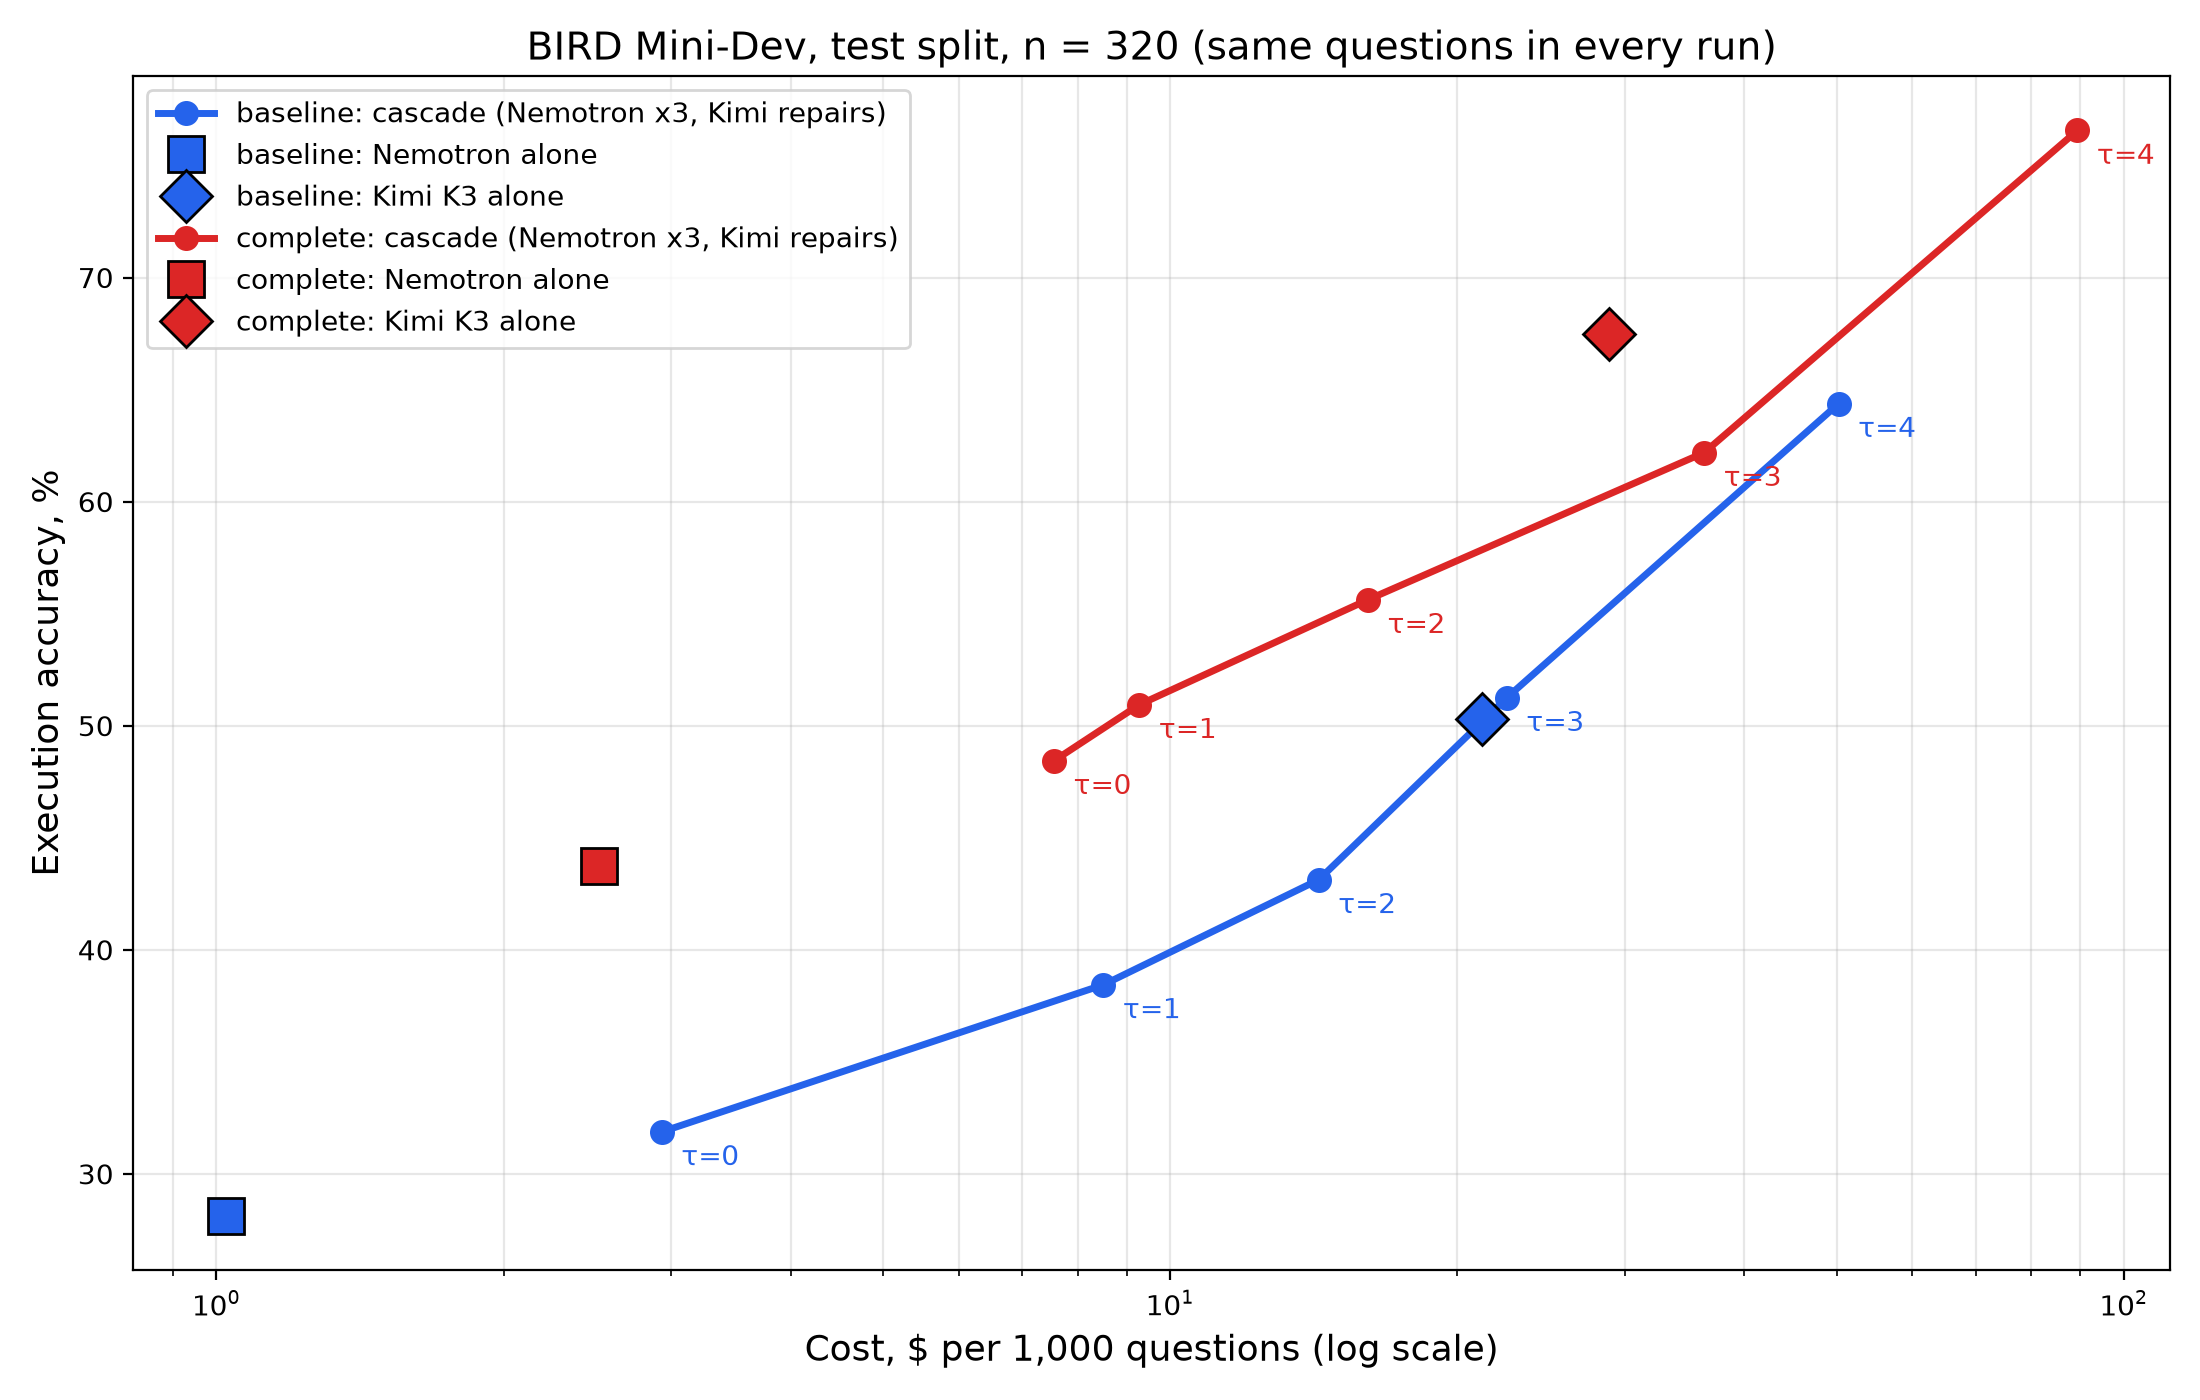
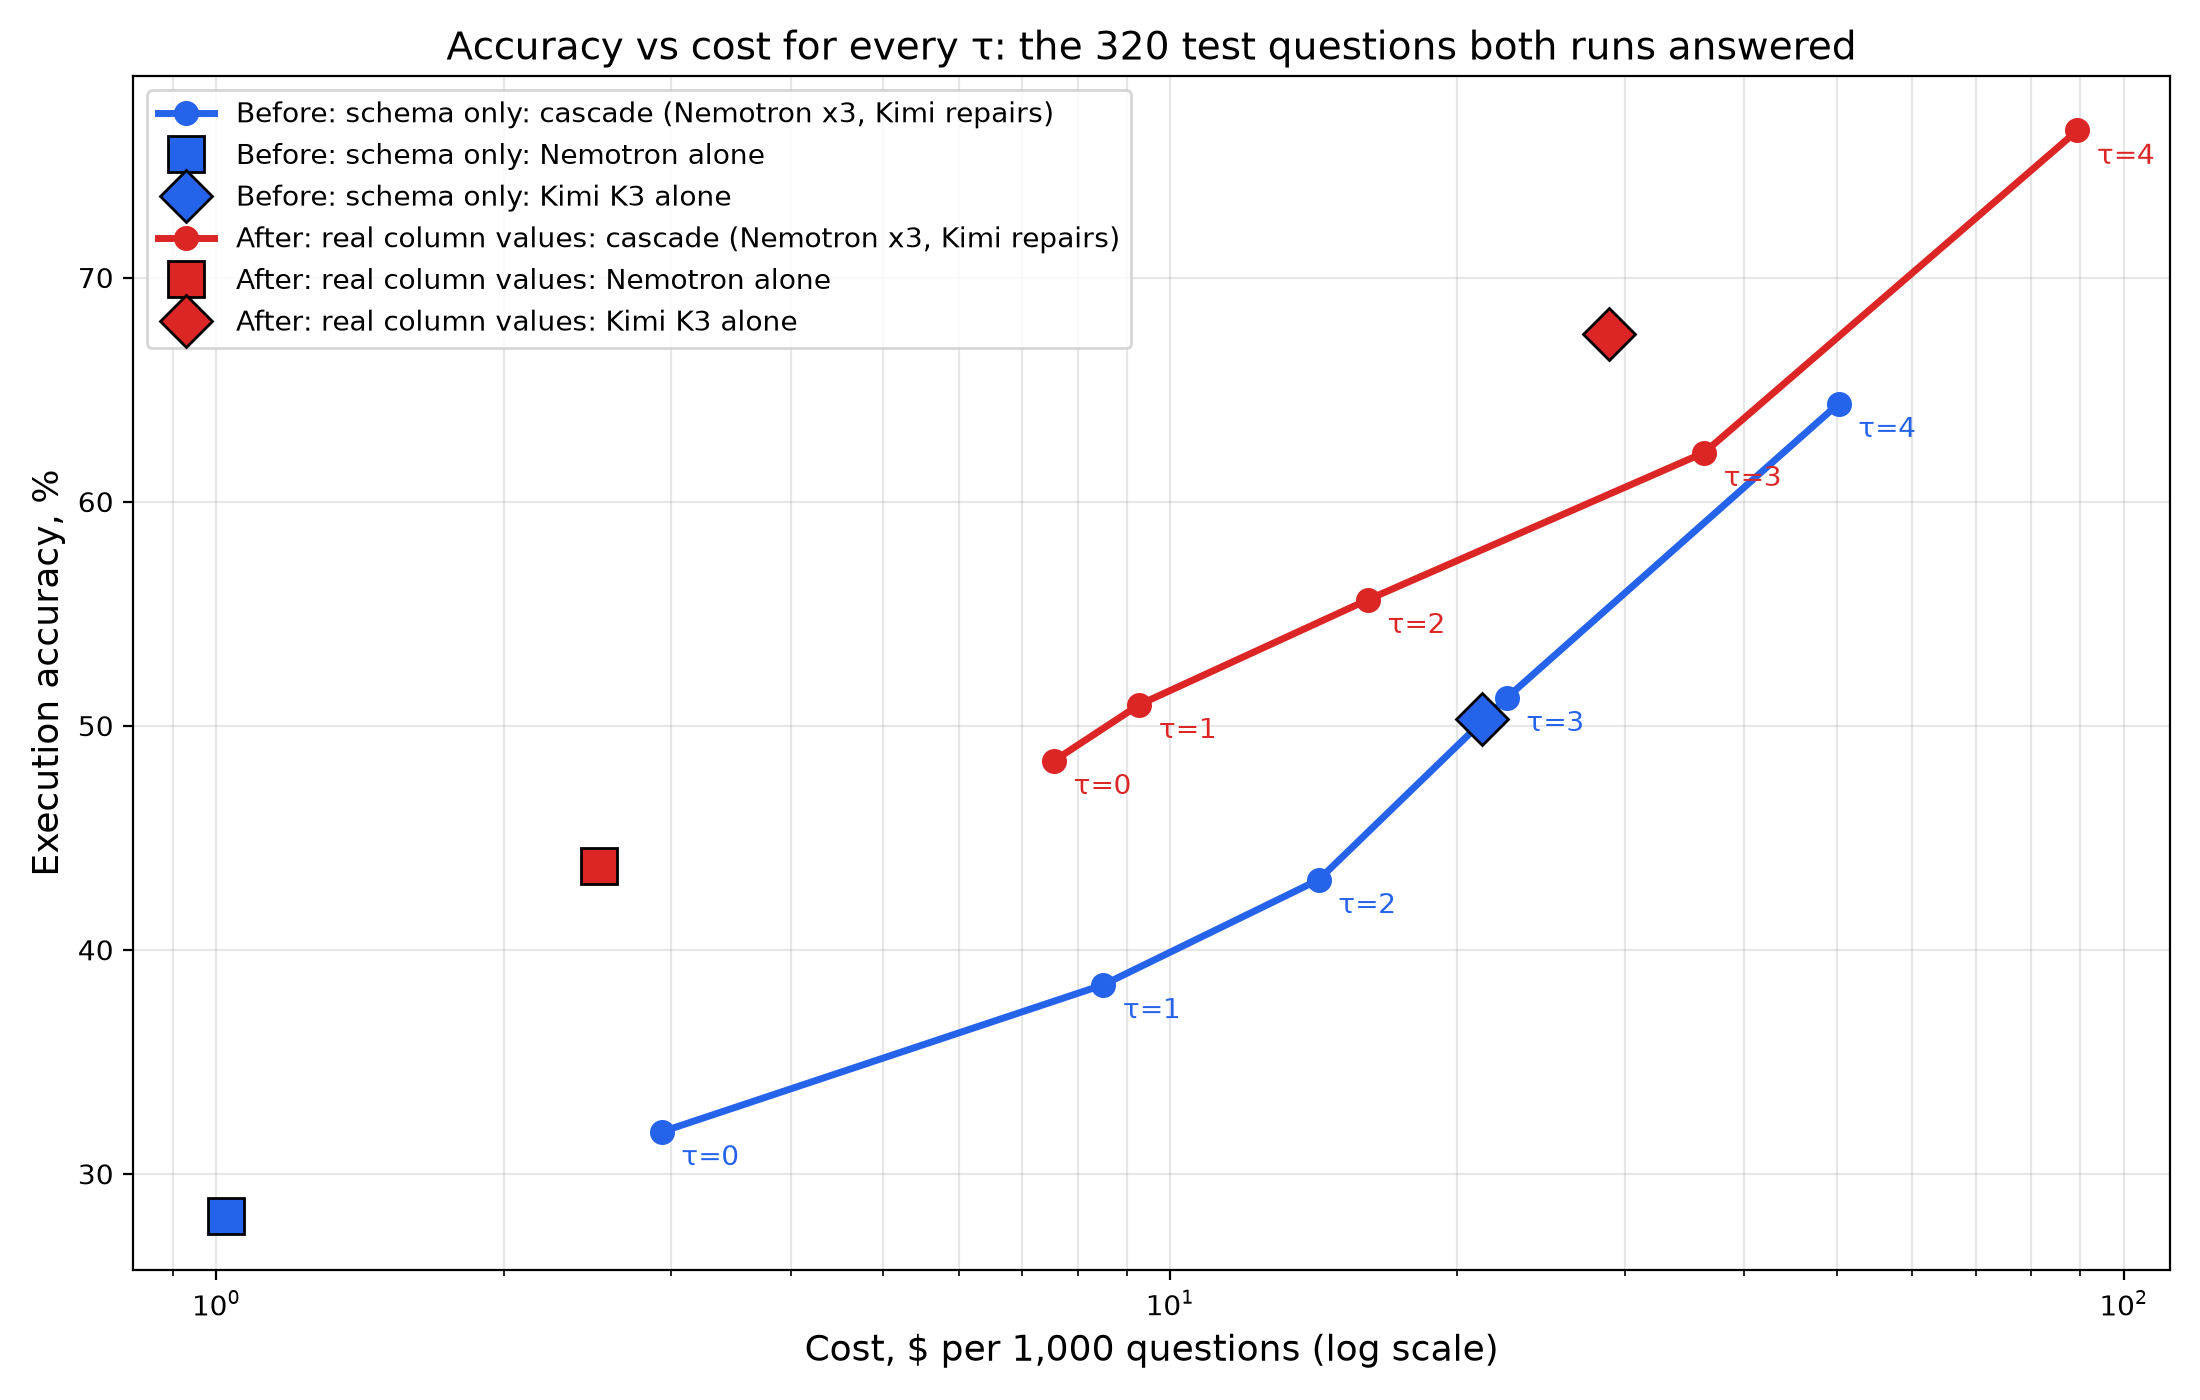
Explain the 320 vs 350 question counts and relabel charts
Claude-Session: https://claude.ai/code/session_0199shEj4K3jS4RTQZqxa2Xg

Changed region(s): [[0.0927, 0.0, 0.8345, 0.2457]]

diff --git a/results_chart.py b/results_chart.py
@@ -167,7 +167,7 @@ def bars(scored, tau, split, n, out, human_minutes=30, human_days=2, review_minu
         ax.margins(y=0.2)
         ax.grid(axis="y", alpha=0.3)
     axes[0].legend(fontsize=10, loc="upper left")
-    fig.suptitle(f"BIRD Mini-Dev, {split} split, n = {n}. Cascade at τ = {tau}.", fontsize=15)
+    fig.suptitle(f"Before vs after real column values: the {n} {split} questions both runs answered. Cascade at τ = {tau}.", fontsize=15)
     fig.text(0.5, 0.005, f"Analyst cost: \\${HUMAN_WAGE}/h, operations research analysts in the San Jose metro (BLS OEWS, May 2025; \\$129,110/yr), the closest BLS role to a data analyst.\n"
              f"Assumed: {human_minutes:g} min to write a query, {review_minutes:g} min to review a draft, {human_days:g}-day turnaround. "
              f"Draft + review: the analyst reviews every cascade answer and rewrites the wrong ones.\n"
@@ -195,7 +195,10 @@ def main():
         export(*a.export, old_gate=a.old_gate)
         return
 
-    runs = {Path(p).stem: json.loads(Path(p).read_text()) for p in a.runs}
+    # Plain names for the legend; any other run keeps its file name.
+    labels = {"baseline": "Before: schema only", "complete": "After: real column values",
+              "final": "After: real column values"}
+    runs = {labels.get(Path(p).stem, Path(p).stem): json.loads(Path(p).read_text()) for p in a.runs}
     # Same questions in every run, so the comparison is paired.
     shared = set.intersection(*[{r["qid"] for r in rows if a.split in ("all", r["split"]) and "repair" in r} for rows in runs.values()])
     scored = {name: score([r for r in rows if r["qid"] in shared]) for name, rows in runs.items()}
@@ -223,7 +226,7 @@ def main():
     ax.set_xscale("log")
     ax.set_xlabel("Cost, $ per 1,000 questions (log scale)", fontsize=13)
     ax.set_ylabel("Execution accuracy, %", fontsize=13)
-    ax.set_title(f"BIRD Mini-Dev, {a.split} split, n = {len(shared)} (same questions in every run)", fontsize=14)
+    ax.set_title(f"Accuracy vs cost for every τ: the {len(shared)} {a.split} questions both runs answered", fontsize=14)
     ax.grid(alpha=0.3, which="both")
     ax.legend(fontsize=10, loc="upper left")
     fig.tight_layout()

diff --git a/WRITEUP.md b/WRITEUP.md
@@ -60,7 +60,7 @@ Natural-language-to-SQL is a crowded market. Our edge is evidence and design, no
 | First-pass model latency (Nemotron 3.5 Lightning → Nemotron 3 Ultra) | ~6 min per call | **~2 s per call** |
 | Unusable replies (empty, or text instead of SQL) in a 20-question trial run, fixed by output-format and reasoning settings | 72 of 100 | **0 of 100** |
 
-The first two rows compare the same 320 test questions before and after real column values were added to the prompt.
+The first two rows and the charts use the 320 test questions that both runs answered, so before and after are compared on identical questions. The full results table below uses all 350 test questions from the run with real column values, so its numbers differ slightly (Kimi K3 alone: 67.5% on the 320, 68.0% on all 350).
 
 ![Accuracy, cost and time: before and after real column values, and a data analyst](results/chart_bars.png)
 
